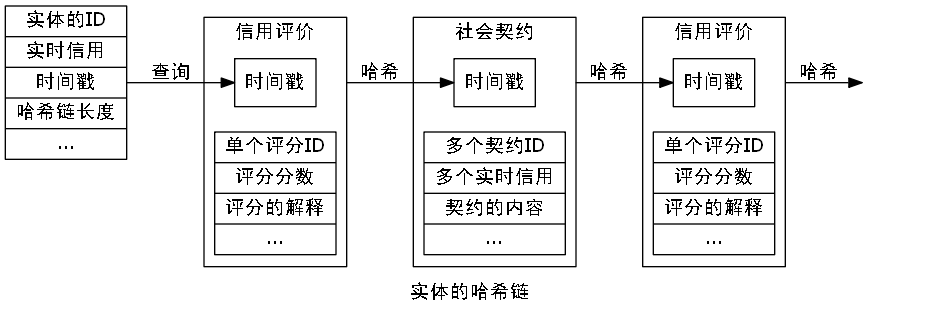
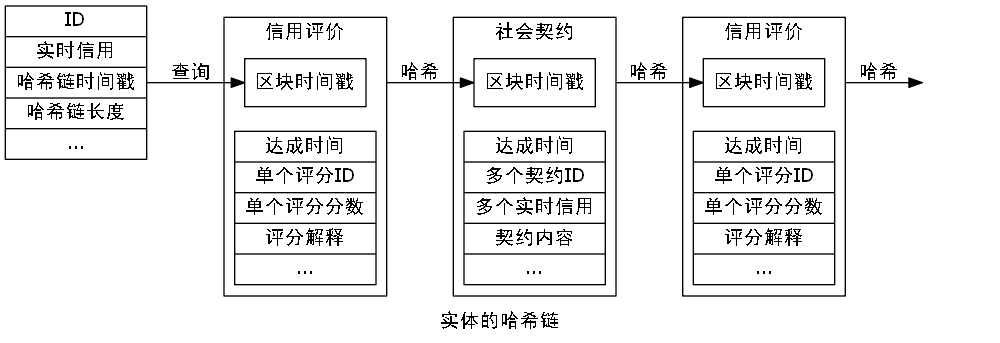
none

Changed region(s): [[0.0, 0.0, 0.9255, 0.9776]]

diff --git a/_zh/Timeline/The_Natural/Social_Credit_Evaluation_System.md b/_zh/Timeline/The_Natural/Social_Credit_Evaluation_System.md
@@ -148,9 +148,7 @@ Resources:
 
 #### 广义的哈希链
 
-**写得很乱，我想先写个大概，多次迭代修改。***
-
-网络中与哈希链存储相关的节点至少可分为3种类型，即服务器节点/手机客户端/智能身份证，其中服务器节点存储着完整的哈希链，手机客户端至少存储着哈希链的头部区块，智能身份证至少存储着哈希链的头部区块中的实时信用。服务器节点之间必定通过网络进行互相通信，而且服务器节点可以随时加入与退出。手机客户端有可能暂时出现没有网络连接的情况，智能身份证在大多数情况下可以没有网络连接。网络中的每个服务器节点存储着不定数量的实体的哈希链，每个实体的哈希链至少存储在6个服务器节点上。网络中的每个服务器是对等的，不存在统一协调的中心服务器。随着实体接入网络的次数增多，每个实体的哈希链将存储在远远超过6个服务器节点上，哈希链存储在越多的服务器节点上，就越能抵抗黑客攻击。也就是说广义的哈希链就是一个完全分布式的数据库，这个数据库由网络中所有服务器节点组成，并通过冗余数据存储的方式来保证平稳运行。没有统一的中心服务器也就没有协调统一的时间，每个对等的服务器按照自己的时间为哈希链中的区块加盖时间戳。因此时间戳里的时间并不是特别精确的时间，这个时间主要用于校验同一实体的哈希链中前后区块的次序。
+网络中与哈希链存储相关的节点至少可分为3种类型，即服务器节点/手机客户端/智能身份证，其中服务器节点存储着完整的哈希链，手机客户端至少存储着哈希链的头部区块，智能身份证至少存储着哈希链的头部区块中的实时信用。服务器节点之间必定通过网络进行互相通信，而且服务器节点可以随时加入与退出。手机客户端有可能暂时出现没有网络连接的情况，智能身份证在大多数情况下可以没有网络连接。网络中的每个服务器节点存储着不定数量的实体的哈希链，每个实体的哈希链至少存储在6个服务器节点上。网络中的每个服务器是对等的，不存在统一协调的中心服务器。随着实体接入网络的次数增多，每个实体的哈希链将存储在远远超过6个服务器节点上，哈希链存储在越多的服务器节点上，就越能抵抗黑客攻击。也就是说广义的哈希链就是一个完全分布式的数据库，这个数据库由网络中所有服务器节点组成，并通过冗余数据存储的方式来保证平稳运行。没有统一的中心服务器也就没有协调统一的时间，每个对等的服务器按照自己的时间为哈希链中的区块加盖时间戳。因此时间戳里的时间并不是特别精确的时间，这个时间主要用于校验同一实体的哈希链中前后区块的次序。区块时间戳一定以主节点上的时间为准。
 
 ![max-width:480px;](figures/Axiomatic_Human_Society/Bicyclic_Verification_for_Credit_Evaluation.png)
 
@@ -162,12 +160,12 @@ Resources:
 
 考虑手机客户端与主节点的数据同步，假设存储有ID1哈希链头部区块的手机客户端成功连接到被称为主节点的服务器节点，但发现主节点上没有存储着ID1哈希链。主节点向全网的服务器节点查询ID1哈希链，全网所有的ID1服务器节点都将返回ID1哈希链的头部区块。假设所有返回的ID1哈希链头部区块中，有占多数的头部区块是相同的，但也有占少数的头部区块是不同的，如果占多数的头部区块与占少数的头部区块的比例达到6:1以上，那么就认为占多数的头部区块是可信的，而认为占少数的头部区块是不可信的。主节点将下载占多数的头部区块的ID1哈希链，从而完成主节点对ID1哈希链的数据同步。主节点将丢弃占少数的区块，同时向社会信用评价系统的管理员报告问题。当手机客户端与主节点有网络连接时，手机客户端将信用评价与社会契约等等数据全部发送给主节点，由主节点完成哈希链的存储，手机客户端仅在查询时保留一部分缓存数据。
 
-考虑手机客户端切断网络连接时的数据存储。
+考虑手机客户端切断网络连接时的数据存储，此时要求手机具有某些近距离通信功能，比如近距离无线电通信技术NFC。假设ID1手机上存储有ID1哈希链头部区块，ID2手机上存储有ID2哈希链头部区块，ID3手机上存储有ID3哈希链头部区块。若实体ID2对实体ID1进行信用评价，可由ID2手机生成信用评价区块，在单个评分ID数据项中填入ID2，在评分分数数据项中填入ID2对ID1的评分分数，在评分的解释数据项中填入ID2对ID1的评分解释，并添加ID2手机上的时间。这份信用评价区块保存在ID2手机上，当ID2手机有网络连接时，ID2手机将这份信用评价区块发送给ID2主节点，ID2主节点通过查询并同步ID1哈希链的方式成为ID1主节点，再由ID1主节点经过双轮循环验证机制，从而在全网将这份信用评价区块添加入ID2哈希链当中。若实体ID1/实体ID2/实体ID3共同签订社会契约，由ID1手机生成社会契约区块，在多个契约ID数据项填入ID1/ID2/ID3，在多个实时信用数据项填入ID1/ID2/ID3的信用，在契约的内容数据项填入ID1/ID2/ID3共同签订的契约文本内容。由ID1手机将这份社会契约发送给ID2手机与ID3手机，实体ID1/ID2/ID3在各自的手机上通过指纹等等验证方式确认无误后，ID1/ID2/ID3手机分别对这份社会契约区块进行数字签名并存档，用于联网时主节点对社会契约的自动确认。等到ID1/ID2/ID3手机与ID1/ID2/ID3主节点完成数据同步后，再由ID1主节点经过双轮循环验证机制，从而在全网将这份信用评价区块分别添加入ID1/ID2/ID3哈希链中。对于社会契约，不存在时间次序的问题。但对于信用评价，因为实时信用的更新由原来的实时信用与评分分数共同决定，所以有必要考虑时间次序问题。一种较好解决方案是，按照信用评价区块上的区块时间戳次序对实时信用进行更新，无论评分实体所看到的被评分实体的实时信用如何。另一种可采用的解决方案是，按照信用评价区块的达成时间对实时信用进行更新，但因为区块时间戳总是落后于达成时间，因此实时信用的更新是按达成时间计算的实时信用的平均值，不会出现哈希链分叉问题。社会信用评价系统采用第一种解决方案，因为信用评分是以评分实体自身为基准，实际上不需要知道被评分实体的实时信用。
+
+考虑智能身份证的数据存储。智能身份证至少存储有实体的ID与实时信用，
 
 
 ### 社会信用评价系统
-
-社会信用评价系统
 
 第三方中介，双重支付，更改记录，黑客攻击。
 

diff --git a/_zh/Timeline/Moments/She_is_so_Brilliant_like_a_Star.md b/_zh/Timeline/Moments/She_is_so_Brilliant_like_a_Star.md
@@ -2,7 +2,7 @@
 layout:    zh_post
 Topic:     朋友圈
 Title:     她灿若星辰
-Revised:   2019-03-23 07:37:00 +08 @ 中国-广东-湛江 +08
+Revised:   2019-03-24 14:34:00 +08 @ 中国-广东-湛江 +08
 Authors:   璀璨星辰
 Resources:
 ---
@@ -810,5 +810,13 @@ CXY，昨天你在微博上提到py，我买了有关网络安全的书，其中
 尚未遇见你，但在遇见你的路上。
 
 于2019年03月23日 07:37 +08 在湛江 +08
+
+--------------------------------------------------------------------------------
+
+亲爱的白羽，昨天你的一段带音乐的视频我看到了，你是个很用心很用心的小姑娘！
+
+对翕如，昨天去看医生，我注意到医生的红框眼镜，我知道那是你的亲戚。
+
+于2019年03月24日 14:34 +08 在湛江 +08
 
 --------------------------------------------------------------------------------
